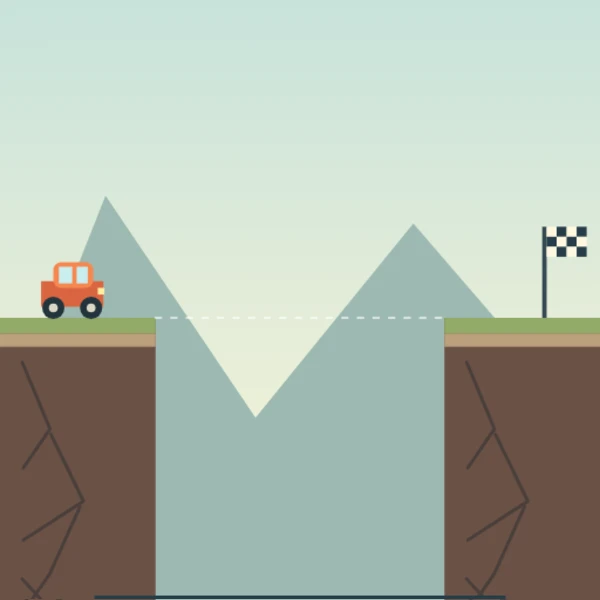
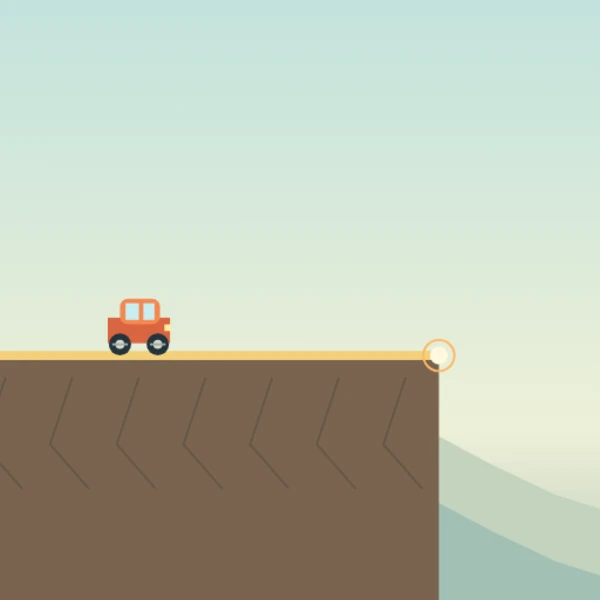
音程で先の道を描きながら車が定速で走り続ける形に変更

diff --git a/games/_koe-bridge/index.html b/games/_koe-bridge/index.html
@@ -121,7 +121,7 @@
   var S = { INTRO: "intro", PLAY: "play", FALL: "fall", RESULT: "result" };
   var state, score, T, held, keyMode = false;
 
-  var level=0,won=false,road=[],carX=65,carY=0,angle=0,speed=0,fallSpeed=0,runTime=0,stuck=0;
+  var level=0,won=false,road=[],carX=0,carY=0,angle=0,speed=120,fallSpeed=0,pitch=0,targetHeight=0,penHeight=0,lastPitchTime=-1,airborne=false;
   var mic=null, micSource=null, analyser=null, samples=null, micPending=false, micError=false;
   function stopMic() { if(micSource){micSource.disconnect();micSource=null;} if(mic) mic.getTracks().forEach(function(t){t.stop();}); mic=null; analyser=null; }
   function requestInputs(){requestMic();}
@@ -133,7 +133,7 @@
     try {
       var stream=await window.navigator.mediaDevices.getUserMedia({audio:{echoCancellation:true,noiseSuppression:true,autoGainControl:true}});
       if(document.hidden){stream.getTracks().forEach(function(t){t.stop();});return;}
-      mic=stream; analyser=AC.createAnalyser(); analyser.fftSize=1024;
+      mic=stream; analyser=AC.createAnalyser(); analyser.fftSize=2048;
       samples=new Float32Array(analyser.fftSize);
       micSource=AC.createMediaStreamSource(stream); micSource.connect(analyser);
       stream.getTracks().forEach(function(t){t.onended=function(){stopMic();micError=true;};});
@@ -142,12 +142,20 @@
   }
   window.addEventListener('pagehide',stopInputs);
   document.addEventListener('visibilitychange',function(){if(document.hidden){stopInputs();held=false;}else if(state===S.PLAY && !micError){requestInputs();}});
-  function readVoice() {
-    if(!analyser) return 0;
-    analyser.getFloatTimeDomainData(samples);
-    var sum=0; for(var i=0;i<samples.length;i++)sum+=samples[i]*samples[i];
-    return Math.max(0,Math.min(1,(Math.sqrt(sum/samples.length)-0.012)/0.075));
+  // 周期の最初の強い山から音程を推定。音量は無音を除くためだけに使う。
+  function detectPitch(data,rate){
+    var n=data.length,mean=0,energy=0;for(var i=0;i<n;i++)mean+=data[i];mean/=n;
+    for(var i=0;i<n;i++)energy+=(data[i]-mean)*(data[i]-mean);
+    if(Math.sqrt(energy/n)<.012)return 0;
+    var lo=Math.floor(rate/700),hi=Math.min(Math.floor(rate/75),Math.floor(n/2)),previous=0,rising=false;
+    for(var lag=lo;lag<=hi;lag++){
+      var cross=0,e1=0,e2=0;for(var i=0;i<n-hi;i+=2){var a=data[i]-mean,b=data[i+lag]-mean;cross+=a*b;e1+=a*a;e2+=b*b;}
+      var c=cross/Math.sqrt(e1*e2+1e-12);
+      if(c<previous&&rising&&previous>.85)return rate/(lag-1);
+      rising=c>previous;previous=c;
+    }return 0;
   }
+  function readPitch(){if(!analyser)return 0;analyser.getFloatTimeDomainData(samples);return detectPitch(samples,AC.sampleRate);}
   var CY;                                      /* 高さから決まる置き場所 */
   function place() {
     CY = Math.round(H * 0.5);                  /* ▼UPDATE: 置き場所の計算 */
@@ -155,35 +163,31 @@
 
   function newRound(){
     stopInputs();shareButton.hidden=true;retryButton.hidden=true;document.getElementById('start').hidden=true;
-    state=S.PLAY;score=0;T=0;held=false;level=0;won=false;road=[];carX=65;carY=H*.48-17;angle=speed=fallSpeed=runTime=stuck=0;
+    state=S.PLAY;score=0;T=0;held=false;level=0;won=false;road=[];carX=0;carY=-18;angle=fallSpeed=pitch=targetHeight=penHeight=0;speed=120;lastPitchTime=-1;airborne=false;
+    for(var x=-180;x<=270;x+=6)road.push({x:x,y:0});
   }
   function ground(x){
-    if(x<=140||x>=400)return H*.48;
-    var i=Math.max(0,Math.min(road.length-1,Math.round((x-140)/260*119))),v=road[i];
-    if(v===undefined||v<.045)return null;
-    var blend=Math.min(1,(x-140)/25,(400-x)/25);
-    return H*.48+(65-v*145)*Math.max(0,blend);
+    var i=Math.max(0,Math.min(road.length-2,Math.floor((x-road[0].x)/6))),a=road[i],b=road[i+1];
+    return a.y+(b.y-a.y)*Math.max(0,Math.min(1,(x-a.x)/6));
   }
-  function finish(ok){won=ok;state=S.RESULT;stopInputs();if(ok){score=100;tone(784,.3,.08);}else noiseHit(.2,170,.1);}
   function update(dt){
-    if(document.hidden||micPending)return;
-    if(state===S.PLAY){
-      var v=held?.45:readVoice();
-      if(v<=.045)return;
-      T+=dt;level+=(v-level)*Math.min(1,dt*14);
-      while(road.length<Math.min(120,Math.floor(T*30)))road.push(level);
-      if(T>=4){state=S.FALL;stopInputs();carY=H*.48-17;}
-      return;
+    if(document.hidden||micPending||state!==S.PLAY)return;
+    T+=dt;
+    if(T-lastPitchTime>=.05){lastPitchTime=T;pitch=held?360:readPitch();
+      if(pitch>0)targetHeight=Math.max(-130,Math.min(130,-Math.log2(pitch/200)*105));else targetHeight=penHeight;
     }
-    if(state!==S.FALL)return;runTime+=dt;
-    var back=ground(carX-17),front=ground(carX+17);
-    if(back===null||front===null){fallSpeed+=430*dt;carY+=fallSpeed*dt;carX+=speed*dt;angle+=dt*1.5;if(carY>H*.48+130)finish(false);return;}
-    var target=Math.atan2(front-back,34),slope=(front-back)/34;
-    angle+=(target-angle)*Math.min(1,dt*9);carY+=( (front+back)*.5-17-carY)*Math.min(1,dt*18);
-    speed=Math.max(0,Math.min(67,speed+(26+slope*70-speed*.35)*dt));carX+=speed*dt;
-    stuck=speed<3?stuck+dt:0;score=Math.max(score,Math.round(Math.min(1,(carX-65)/405)*100));
-    if(Math.abs(target)>1.08||stuck>1.5||runTime>18){finish(false);return;}
-    if(carX>=470)finish(true);
+    carX+=speed*dt;score=Math.floor(carX/10);
+    while(road[road.length-1].x<carX+270){
+      // 急な音程変化も坂としてつなぎ、線を途切れさせない。
+      penHeight+=Math.max(-5,Math.min(5,targetHeight-penHeight));
+      road.push({x:road[road.length-1].x+6,y:penHeight});
+    }
+    while(road.length>2&&road[1].x<carX-200)road.shift();
+    var back=ground(carX-17),front=ground(carX+17),surface=(back+front)*.5-18;
+    var slope=(front-back)/34,targetAngle=Math.atan2(front-back,34);
+    fallSpeed+=240*dt;carY+=fallSpeed*dt;airborne=carY<surface-2;
+    if(carY>=surface){carY=surface;fallSpeed=slope*speed;airborne=false;}
+    angle+=((airborne?Math.max(-.3,Math.min(.3,angle)):targetAngle)-angle)*Math.min(1,dt*7);
   }
 
   /* ============ 入力 ============
@@ -246,7 +250,7 @@
   function doShare() {
     /* ▼SHARE: シェアされる文。正方形サムネの共有リンクは share.js が付ける。
        URLはここで作らない。公開準備の publish.js がゲーム名とサムネのOGPを作る。 */
-    window.zResultActions.x({ text: score+"% 渡れました #声の橋" });
+    window.zResultActions.x({ text: score+"m 走りました #声の橋" });
   }
 
   /* ============ 描画 ============ */
@@ -272,21 +276,18 @@
   }
   function rect(x,y,w,h,color){ctx.fillStyle=color;ctx.fillRect(x,y,w,h);}
   function drawBridge(){
-    var base=H*.48,sky=ctx.createLinearGradient(0,0,0,H);sky.addColorStop(0,'#bddedc');sky.addColorStop(.6,'#edf0d7');sky.addColorStop(1,'#536977');ctx.fillStyle=sky;ctx.fillRect(0,0,W,H);
-    ctx.fillStyle='#9db9b2';ctx.beginPath();ctx.moveTo(0,base+130);ctx.lineTo(95,base-110);ctx.lineTo(230,base+90);ctx.lineTo(372,base-85);ctx.lineTo(540,base+110);ctx.lineTo(540,H);ctx.lineTo(0,H);ctx.fill();
-    [0,400].forEach(function(x){rect(x,base,140,H-base,'#6b5146');rect(x,base,140,14,'#92ab67');rect(x,base+14,140,12,'#bba07c');
-      ctx.strokeStyle='#493f3b';ctx.lineWidth=3;for(var i=0;i<7;i++){ctx.beginPath();ctx.moveTo(x+20+(i%3)*26,base+40+i*65);ctx.lineTo(x+45+(i%2)*30,base+100+i*65);ctx.lineTo(x+21,base+135+i*65);ctx.stroke();}});
-    ctx.setLineDash([5,9]);ctx.strokeStyle='rgba(255,255,255,.6)';ctx.lineWidth=2;ctx.beginPath();ctx.moveTo(140,base);ctx.lineTo(400,base);ctx.stroke();ctx.setLineDash([]);
-    ctx.strokeStyle='#f4c65b';ctx.lineWidth=8;ctx.lineJoin='round';ctx.lineCap='round';ctx.beginPath();var drawing=false;
-    road.forEach(function(v,i){var x=140+i/119*260,y=ground(x);if(v<.045||y===null){drawing=false;return;}if(!drawing)ctx.moveTo(x,y);else ctx.lineTo(x,y);drawing=true;});ctx.stroke();
-    if(state===S.PLAY){var x=140+Math.min(T/4,1)*260;ctx.strokeStyle='#fff';ctx.lineWidth=2;ctx.beginPath();ctx.moveTo(x,base-100);ctx.lineTo(x,base+90);ctx.stroke();ctx.fillStyle='#fff';ellipse(x,base-100,5,5);}
-    rect(488,base-82,4,82,'#344852');for(var i=0;i<3;i++)for(var j=0;j<4;j++)rect(492+j*9,base-82+i*9,9,9,(i+j)%2?'#273d49':'#fff7df');
-    ctx.save();ctx.translate(carX,state===S.INTRO?base-17:carY);ctx.rotate(angle);
+    var base=H*.52,sky=ctx.createLinearGradient(0,0,0,H);sky.addColorStop(0,'#b6dede');sky.addColorStop(.6,'#edf0d7');sky.addColorStop(1,'#819b9c');ctx.fillStyle=sky;ctx.fillRect(0,0,W,H);
+    for(var layer=0;layer<2;layer++){ctx.fillStyle=layer?'#a2bfb3':'#c3d3be';ctx.beginPath();ctx.moveTo(0,H);for(var x=-100;x<W+150;x+=60){var yy=base+80+layer*60-Math.sin((x+carX*(.12+layer*.1))/130)*70;ctx.lineTo(x,yy);}ctx.lineTo(W,H);ctx.fill();}
+    var offset=carX-125,end=road[road.length-1];
+    ctx.beginPath();ctx.moveTo(road[0].x-offset,H);road.forEach(function(p){ctx.lineTo(p.x-offset,base+p.y);});ctx.lineTo(end.x-offset,H);ctx.fillStyle='#796450';ctx.fill();
+    ctx.beginPath();road.forEach(function(p,i){if(i)ctx.lineTo(p.x-offset,base+p.y);else ctx.moveTo(p.x-offset,base+p.y);});ctx.strokeStyle='#f3d07a';ctx.lineWidth=8;ctx.lineJoin='round';ctx.stroke();
+    ctx.strokeStyle='rgba(55,52,47,.28)';ctx.lineWidth=2;for(var x=Math.floor((carX-200)/60)*60;x<end.x;x+=60){var y=base+ground(x);ctx.beginPath();ctx.moveTo(x-offset,y+20);ctx.lineTo(x-offset-20,y+80);ctx.lineTo(x-offset+15,y+120);ctx.stroke();}
+    ctx.fillStyle='#fff9de';ellipse(end.x-offset,base+end.y,8,8);ctx.strokeStyle='#ffb865';ctx.lineWidth=2;ctx.beginPath();ctx.arc(end.x-offset,base+end.y,14+Math.sin(T*8)*2,0,Math.PI*2);ctx.stroke();
+    ctx.save();ctx.translate(125,base+carY);ctx.rotate(angle);
     rect(-28,-16,56,23,'#d96540');ctx.fillStyle='#f58851';roundRect(-17,-33,36,23,7);ctx.fill();rect(-12,-29,12,15,'#c9edef');rect(4,-29,10,15,'#c9edef');rect(23,-10,6,6,'#ffed9e');
-    [-17,17].forEach(function(x){ctx.fillStyle='#24343c';ellipse(x,8,10,10);ctx.fillStyle='#dad8c6';ellipse(x,8,4,4);});ctx.restore();
-    var y=H-190;rect(85,y,370,78,'#263e49');ctx.strokeStyle='#77d8c6';ctx.lineWidth=2;ctx.beginPath();
-    for(var i=0;i<120;i++){var v=road[i]||0,x=95+i/119*350,yy=y+39-Math.sin(i*2.7)*v*31;if(i)ctx.lineTo(x,yy);else ctx.moveTo(x,yy);}ctx.stroke();
-    if(state===S.PLAY){ctx.fillStyle='#f38666';ellipse(105,y+15,5,5);rect(120,y+12,Math.min(310,T/4*310),5,'#f4c65b');}
+    [-17,17].forEach(function(x){ctx.fillStyle='#24343c';ellipse(x,8,10,10);ctx.fillStyle='#dad8c6';ellipse(x,8,4,4);ctx.save();ctx.translate(x,8);ctx.rotate(carX/10);ctx.strokeStyle='#9faeae';ctx.lineWidth=2;ctx.beginPath();ctx.moveTo(-7,0);ctx.lineTo(7,0);ctx.stroke();ctx.restore();});ctx.restore();
+    if(state===S.PLAY){ctx.fillStyle='#365560';ctx.font='bold 28px sans-serif';ctx.textAlign='right';ctx.fillText(score+'m',W-24,48);}
+    var y=H-175;rect(85,y,370,65,'#263e49');ctx.strokeStyle=pitch?'#f3d07a':'#77a6a6';ctx.lineWidth=2;ctx.beginPath();for(var i=0;i<=120;i++){var yy=y+33+(pitch?Math.sin(i*pitch/100)*18:0);if(i)ctx.lineTo(95+i*350/120,yy);else ctx.moveTo(95,yy);}ctx.stroke();
   }
 
   /* 結果画面。数字と「もう一度」「Xでシェア」だけ（説明や煽りは足さない） */
@@ -338,7 +339,7 @@
      テスト（games/_tools）から中を見るためのもの。読むのと進めるだけ。
      消さなくてよい。遊びを飛ばせるものは足さないこと。 */
   window.__probe = {
-    now:function(){return {state:state,score:score,W:W,H:H,level:level,won:won,time:T,x:carX,angle:angle,road:road.slice(),micPending:micPending,micError:micError};},
+    now:function(){return {state:state,score:score,W:W,H:H,level:level,won:won,time:T,x:carX,y:carY,angle:angle,pitch:pitch,targetHeight:targetHeight,airborne:airborne,road:road.slice(),micPending:micPending,micError:micError};},
     step: function (n) { for (var i = 0; i < (n || 1); i++) { update(1 / 60); draw(); } },
     reset: function () { newRound(); }
   };
@@ -350,7 +351,7 @@
     run: async function (r) {
       await r.wait(1000);
       r.key();
-      if (!await r.until(function () { return state === S.RESULT; }, 10)) throw Error("勝敗が出ない");
+      await r.wait(10000);
       await r.wait(1500);
     }
   };

diff --git a/games/_tools/tests/koe-bridge.js b/games/_tools/tests/koe-bridge.js
@@ -1,9 +1,9 @@
 const assert=require('assert'),load=require('../harness');
 for(const shape of [[390,844],[700,700],[500,1600]]){
- const g=load('games/_koe-bridge/index.html',{w:shape[0],h:shape[1],inject:`var volume=0;readVoice=function(){return volume;};window.__dbg={volume:function(v){volume=v;}};`});
- g.press(' ');g.dbg.volume(.45);g.step(241);assert.equal(g.probe.now().road.length,120);assert(g.until(()=>g.probe.now().state==='result',1400));assert(g.probe.now().won,'一定の声で渡れる');
- g.probe.reset();g.dbg.volume(0);g.step(600);assert.equal(g.probe.now().road.length,0);assert.equal(g.probe.now().time,0);
- g.dbg.volume(.45);g.step(60);const n=g.probe.now().road.length,t=g.probe.now().time;g.dbg.volume(0);g.step(300);assert.equal(g.probe.now().road.length,n);assert.equal(g.probe.now().time,t,'無音で即停止');g.dbg.volume(.45);g.step(181);g.until(()=>g.probe.now().state==='result',1400);assert(g.probe.now().won,'途中で黙っても橋をつなげる');
- g.probe.reset();g.dbg.volume(1);g.step(241);g.until(()=>g.probe.now().state==='result',1400);assert(!g.probe.now().won,'大声の急坂では止まる');
- console.log(shape.join('×')+'：発声中だけ橋作り・無音で停止・再開して成功・急坂で失敗');
+const g=load('games/_koe-bridge/index.html',{w:shape[0],h:shape[1],inject:`var hz=0;readPitch=function(){return hz;};window.__dbg={pitch:function(v){hz=v;},detect:detectPitch};`});
+g.press(' ');let jumps=0;for(let n=0;n<3600;n++){g.dbg.pitch(n%240<120?120:400);g.step(1);if(g.probe.now().airborne)jumps++;}
+let p=g.probe.now();assert.equal(p.state,'play');assert(Math.abs(p.x-7200)<.01);assert(p.road.length<90,'古い道を保持し続けない');assert(jumps>0,'起伏で跳ねる');assert(Number.isFinite(p.y));
+g.dbg.pitch(0);g.step(120);p=g.probe.now();assert.equal(p.road.at(-1).y,p.road.at(-2).y,'無音で平らな道');
+for(const rate of [44100,48000])for(const hz of [100,180,300,500])for(const amp of [.04,.3]){const data=Float32Array.from({length:2048},(_,i)=>amp*Math.sin(i*2*Math.PI*hz/rate));assert(Math.abs(g.dbg.detect(data,rate)-hz)/hz<.03,'音量によらず音程を検出');}
+assert.equal(g.dbg.detect(new Float32Array(2048),48000),0);console.log(shape.join('×')+'：60秒定速走行・跳ね・無音・音程を確認');
 }

diff --git a/games/_tools/tests/koe-bridge-draw.js b/games/_tools/tests/koe-bridge-draw.js
@@ -6,8 +6,8 @@ const hook=`window.__check={setup:function(height){H=height;canvas.width=540;can
 const runner=`<script>window.__recordManual=true;(async()=>{try{
 const c=document.getElementById('c'),p=window.__probe,t=window.__check;
 async function save(name){await fetch('/__image/'+name,{method:'POST',body:await new Promise(r=>c.toBlob(r))});}
-for(const h of [700,1130,1700]){t.setup(h);await save('start-'+h+'.png');t.win();p.step(900);if(!p.now().won)throw Error('平らな橋で渡れない');if(p.now().state!=='result')throw Error('結果が出ない');await save('win-'+h+'.png');}
-await fetch('/__done',{method:'POST',body:'橋・車の通過・録画元の画面を3種類で確認'});
+for(const h of [700,1130,1700]){t.setup(h);await save('start-'+h+'.png');t.win();p.step(300);if(p.now().state!=='play')throw Error('走行が止まる');await save('win-'+h+'.png');}
+await fetch('/__done',{method:'POST',body:'音程の道・定速走行・録画元の画面を3種類で確認'});
 }catch(e){await fetch('/__fail',{method:'POST',body:e.stack});}})();</script>`;
 const server=http.createServer((req,res)=>{
   const u=req.url.split('?')[0];

diff --git a/games/_koe-bridge/音声の処理.md b/games/_koe-bridge/音声の処理.md
@@ -1,5 +1,5 @@
-# 声の橋
+# 音程で道を作る
 
-声が出ている時間を合計4秒、毎秒30点の地形として保持する。無音中は線と計測時間を止め、声を出すと同じ場所から再開する。録音データの保存や外部送信、単語の音声認識は行わない。一定の音量で平らな橋、強い声で高い山、無音では線の進行を止める。地形確定時にマイクを停止する。
+マイク波形の周期を端末内で推定し、75〜700Hzの音程で車の先の道の高さを変える。音量は小さい雑音の除外にだけ使う。無音では最後の高さを保つ。音声の保存・外部送信・単語認識は行わない。
 
-マイクが使えない場合は画面またはスペースの長押しで一定の音を代用できる。実マイクでの感度は実機確認が必要。
+車は毎秒120の一定速度で進み、270先に道を描く。古い道は削除して走行を継続する。縦方向は重力と路面接触で動く。ゴールや時間制限はない。マイクが使えない場合は長押しで高音を代用できる。実声での推定精度は未確認。
